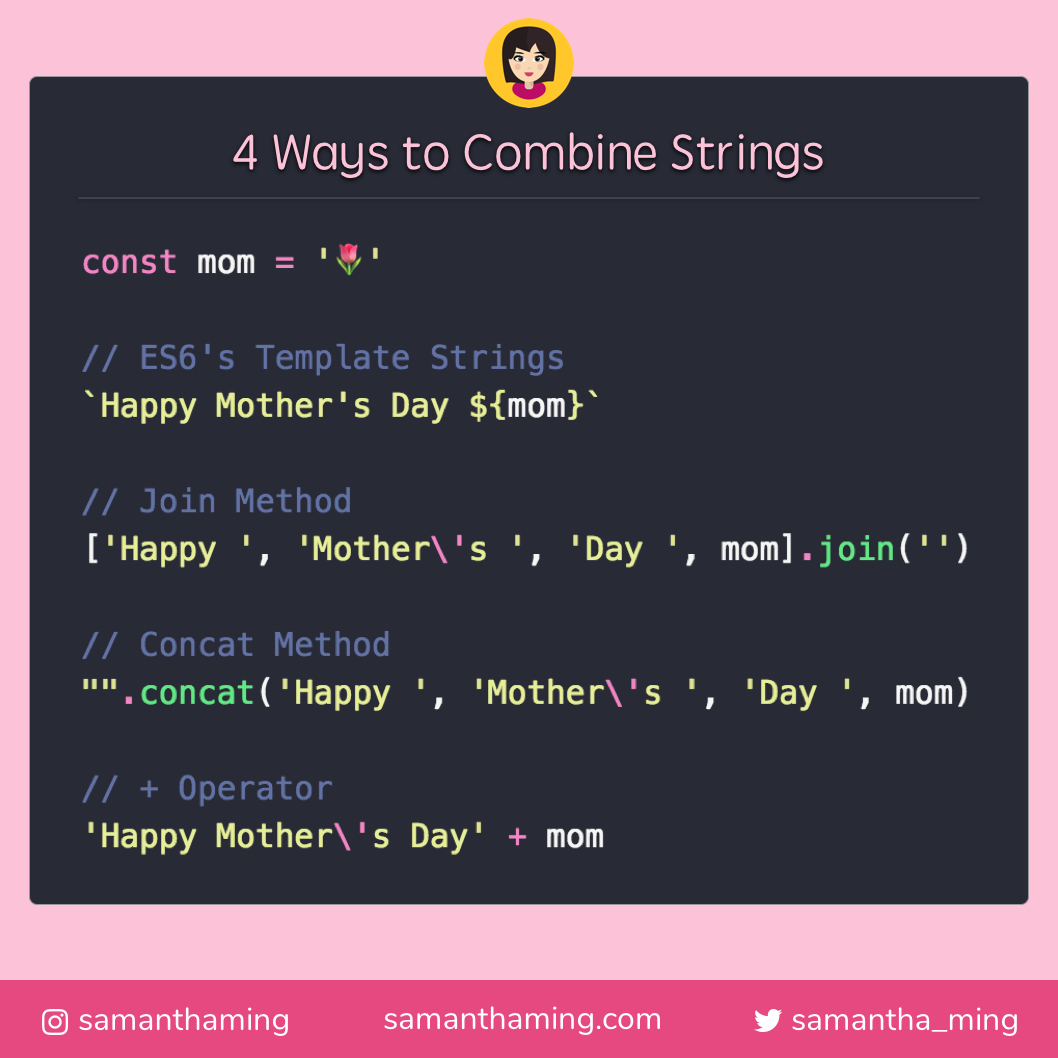
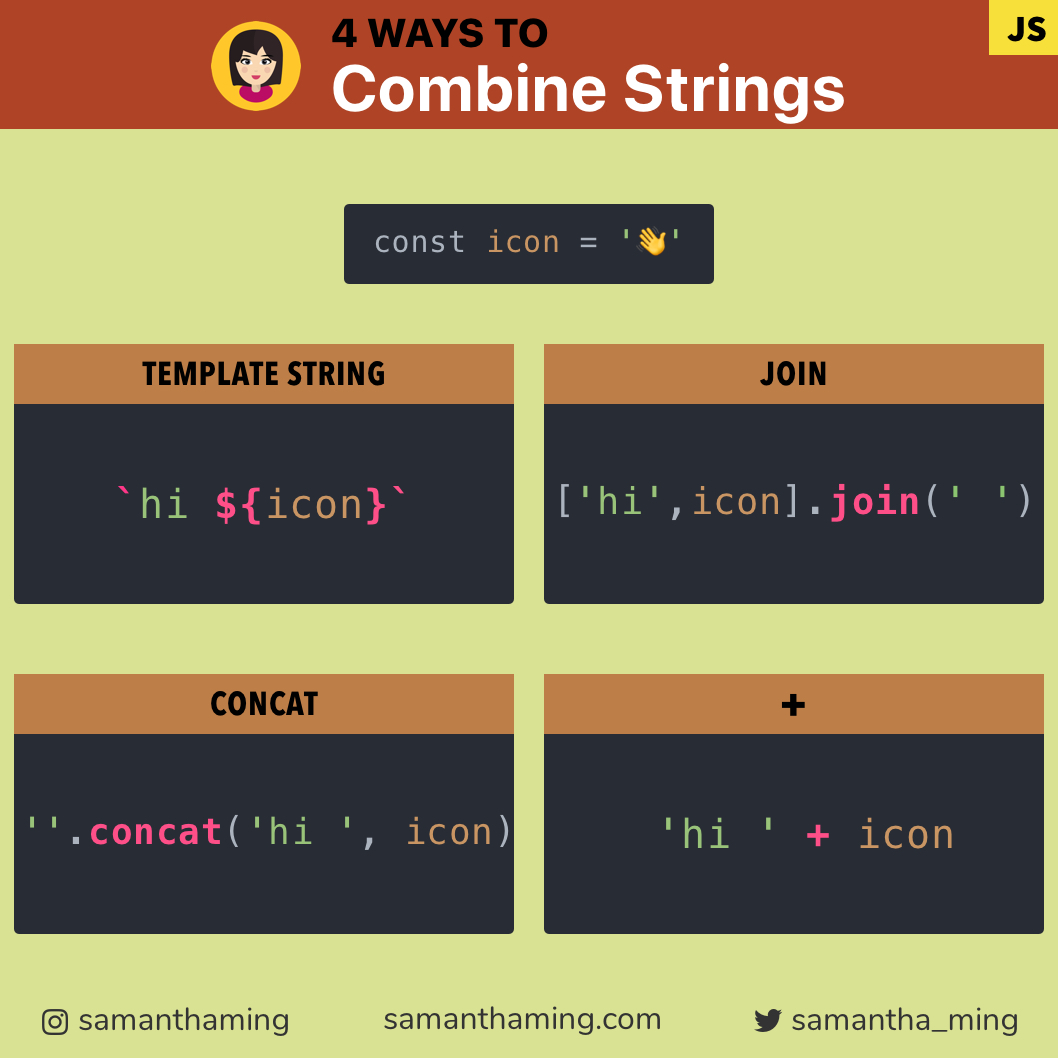
Update tidbit-15 4 ways to combine strings

diff --git a/articles/tidbits/15-4-ways-to-combine-strings.md b/articles/tidbits/15-4-ways-to-combine-strings.md
@@ -1,25 +1,290 @@
-# 4 Ways to Combine Strings
+# 4 Ways to Combine Strings in JavaScript
 
-Happy Mother’s Day 🌷
-
-4 ways to combine strings in JavaScript. My favourite way is using ES6’s Template Strings. Why? Because it’s more readable, no backslash to escape quotes, and no more messy plus operators.
+Here are 4 ways to combine strings in JavaScript. My favorite way is using Template Strings. Why? Because it’s more readable, no backslash to escape quotes, no awkward empty space separator, and no more messy plus operators 👏
 
 ```js
-const mom = '🌷';
+const icon = '👋';
 
-// ES6's Template Strings
-const templateString = `Happy Mother's Day ${mom}`;
+// Template Strings
+`hi ${icon}`;
 
 // join() Method
-const joinMethod = ['Happy', 'Mother\'s', 'Day', mom].join(' ');
+['hi', icon].join(' ');
 
 // Concat() Method
-const concatMethod = "".concat('Happy ', 'Mother\'s ', 'Day ', mom);
+''.concat('hi ', icon);
 
 // + Operator
-const plusOperator = 'Happy Mother\'s Day ' + mom;
+'hi ' + icon;
+
+// RESULT
+// hi 👋
 ```
+
+[[toc]]
+
+<!-- Let's dive a bit deeper to see all these different ways to combine or concatenate our string. -->
+
+## 1. Template Strings
+
+If you come from another language, such as Ruby, you will be familiar with the term **string interpolation**. That's exactly what template strings is trying to achieve. It's a simple way to include expressions in your string creation which is readable and concise.
+
+```javascript
+const name = 'samantha';
+const country = '🇨🇦';
+```
+
+### Problem of Missing space in String concatenation
+
+Before template strings, this would be the result of my string 😫
+
+```javascript
+"Hi, I'm " + name + "and I'm from " + country;
+```
+
+☝ Did you catch my mistake? I'm missing a space 😫. And that's a super common issue when concatenating strings.
+
+```javascript
+// Hi, I'm samanthaand I'm from 🇨🇦
+```
+
+### Resolved with Template Strings
+
+With template strings, this is resolved. You write exactly how you want your string to appear. So it's very easy to spot if a space is missing. Super readable now, yay! 👏
+
+```javascript
+`Hi, I'm ${name} and I'm from ${country}`;
+```
+
+## 2. join()
+
+The `join` method combines the elements of an array and returns a string. Because it's working with array, it's very handy if you want to add additional strings.
+
+```javascript
+const instagram = '@samanthaming';
+const twitter = '@samantha_ming';
+const array = ['My handles are ', instagram, twitter];
+
+const tiktok = '@samantaming';
+
+array.push(tiktok);
+
+array.join(' ');
+
+// My handles are @samanthaming @samantha_ming @samanthaming
+```
+
+### Customize Separator
+
+The great thing about `join` is that you can customize how your array elements get combined. You can do this by passing a separator in its parameter.
+
+```javascript
+const array = ['My handles are'];
+const handles = [instagram, twitter, tiktok].join(', '); // @samanthaming, @samantha_ming, @samanthaming
+
+array.push(handles); // ['My handles are', '@samanthaming, @samantha_ming, @samanthaming']
+
+array.join(' '); // My handles are @samanthaming, @samantha_ming, @samanthaming
+```
+
+## 3. concat()
+
+With `concat`, you can create a new string by calling the method on a string.
+
+```javascript
+const instagram = '@samanthaming';
+const twitter = '@samantha_ming';
+const tiktok = '@samanthaming';
+
+'My handles are '.concat(instagram, ', ', twitter', ', tiktok);
+
+// My handles are @samanthaming, @samantha_ming, @samanthaming
+```
+
+### Combining String with Array
+
+You can also use `concat` to combine a string with an array. When I pass an array argument, it will automatically convert the array items into a string separated by a comma `,`.
+
+```javascript
+const array = [instagram, twitter, tiktok];
+
+'My handles are '.concat(array);
+
+// My handles are @samanthaming,@samantha_ming,@samanthaming
+```
+
+If you want it formatted better, we can use `join` to customize our separator.
+
+```javascript
+const array = [instagram, twitter, tiktok].join(', ');
+
+'My handles are '.concat(array);
+// My handles are @samanthaming, @samantha_ming, @samanthaming
+```
+
+## 4. Plus Operator (+)
+
+One interesting thing about using the `+` operator when combining strings. You can use to create a new string or you can mutate an existing string by appending to it.
+
+### Non-Mutative
+
+Here we are using `+` to create a brand new string.
+
+```javascript
+const instagram = '@samanthaming';
+const twitter = '@samantha_ming';
+const tiktok = '@samanthaming';
+
+const newString = 'My handles are ' + instagram + twitter + tiktok;
+```
+
+### Mutative
+
+We can also append it to an existing string using `+=`. So if for some reason, you need a mutative approach, this might be an option for you.
+
+```javascript
+let string = 'My handles are ';
+
+string += instagram + twitter;
+
+// My handles are @samanthaming@samantha_ming
+```
+
+OH darn 😱 Forgot the space again. SEE! It's so easy to miss a space when concatenating strings.
+
+```javascript
+string += instagram + ', ' + twitter + ', ' + tiktok;
+
+// My handles are @samanthaming, @samantha_ming, @samanthaming
+```
+
+That feels so messy still, let's throw `join` in there!
+
+```javascript
+string += [instagram, twitter, tiktok].join(', ');
+
+// My handles are @samanthaming, @samantha_ming, @samanthaming
+```
+
+## Escaping Characters in Strings
+
+When you have special characters in your string, you will need to first escape these characters when combining. Let's look through a few scenarios and see how we can escape them 💪
+
+### Escape Single Quotes or Apostrophes (')
+
+When creating a string you can use single or double quotes. Knowing this knowledge, when you have a single quote in your string, a very simple solution is to use the opposite to create the string.
+
+```javascript
+const happy = 🙂;
+
+["I'm ", happy].join(' ');
+
+''.concat("I'm ", happy);
+
+"I'm " + happy;
+
+// RESULT
+// I'm 🙂
+```
+
+Of course, you can also use the backslash, `\` , to escape characters. But I find it a bit difficult to read, so I don't often do it this way.
+
+```javascript
+const happy = 🙂;
+
+['I\'m ', happy].join(' ');
+
+''.concat('I\'m ', happy);
+
+'I\'m ' + happy;
+
+// RESULT
+// I'm 🙂
+```
+
+_Because Template strings is using backtick, this scenario doesn't apply to it 👍_
+
+### Escape Double Quotes (")
+
+Similar to escaping single quotes, we can use the same technique of using the opposite. So for escaping double quotes, we will use single quotes.
+
+```javascript
+const flag = '🇨🇦';
+
+['Canada "', flag, '"'].join(' ');
+
+''.concat('Canada "', flag, '"');
+
+'Canada "' + flag + '"';
+
+// RESULT
+// Canada "🇨🇦"
+```
+
+And yes, can also use the backslash escape character.
+
+```javascript
+const flag = '🇨🇦';
+
+['Canada "', flag, '"'].join(' ');
+
+''.concat('Canada "', flag, '"');
+
+'Canada "' + flag + '"';
+
+// RESULT
+// Canada "🇨🇦"
+```
+
+_Because Template strings is using backtick, this scenario doesn't apply to it 👍_
+
+### Escape backtick (`)
+
+Because Template strings is using backticks to create its string, when do want to output that character, we have to escape it using backslash.
+
+```javascript
+const flag = '🇨🇦';
+
+`Use backtick \`\` to create a template string`;
+
+// RESULT
+// Use backtick `` to create a template string
+```
+
+_Because the other string creations are not using backtick, this scenario doesn't apply to them 👍_
+
+## Which way to use?
+
+I showed a few examples of using the different ways of concatenating strings. Which way is better all depends on the situation. When it comes to stylistic preference, I like to follow Airbnb Style guide.
+
+> When programmatically building up strings, use template strings instead of concatenation. eslint: [prefer-template template-curly-spacing](https://eslint.org/docs/rules/prefer-template.html)
+
+So template strings for the win! 👑
+
+### Why the other ways still matter?
+
+It's still important to know the other ways as well. Why? Because not every code base will follow this rule or you might be dealing with a legacy code base. As a developer, we need to be able to adapt and understand whatever environment we're thrown in. We're there to problem solve not complain how old the tech is lol 😂 Unless that complaining is paired with tangible action to improve. Then we got progress 👏
+
+## Browser Support
+
+| Browser           | Template String | join        | concat    | +         |
+| ----------------- | :-------------: | ----------- | --------- | --------- |
+| Internet Explorer |       ❌        | ✅ _IE 5.5_ | ✅ _IE 4_ | ✅ _IE 3_ |
+| Edge              |       ✅        | ✅          | ✅        | ✅        |
+| Chrome            |       ✅        | ✅          | ✅        | ✅        |
+| Firefox           |       ✅        | ✅          | ✅        | ✅        |
+| Safari            |       ✅        | ✅          | ✅        | ✅        |
 
 ## Resources
 
 - [MDN Template Literals](https://developer.mozilla.org/en-US/docs/Web/JavaScript/Reference/Template_literals)
+- [MDN: concat](https://developer.mozilla.org/en-US/docs/Web/JavaScript/Reference/Global_Objects/String/concat)
+- [MDN: join](https://developer.mozilla.org/en-US/docs/Web/JavaScript/Reference/Global_Objects/Array/join)
+- [MDN: +](https://developer.mozilla.org/en-US/docs/Web/JavaScript/Reference/Operators/Addition)
+- [Stack Overflow: Most efficient way to concatenate strings in JavaScript?](https://stackoverflow.com/questions/16696632/most-efficient-way-to-concatenate-strings-in-javascript)
+- [3 Ways to Concatenate Strings](https://masteringjs.io/tutorials/fundamentals/string-concat)
+- [Digital Ocean: How To Work with Strings in JavaScript](https://www.digitalocean.com/community/tutorials/how-to-work-with-strings-in-javascript)
+- [Airbnb Style Guide](https://github.com/airbnb/javascript#es6-template-literals)
+- [ESLint: prefer-template](https://eslint.org/docs/rules/prefer-template.html)
+- [SamanthaMing: How to Create Multi-Line String with Template Literals](https://www.samanthaming.com/tidbits/58-multi-line-strings-with-template-literals/)
+- [SamanthaMing: join](articles/basics/array-join.md)

diff --git a/articles/tidbits/95-fix-text-overlap-with-css-white-space.md b/articles/tidbits/95-fix-text-overlap-with-css-white-space.md
@@ -201,6 +201,8 @@ _[@longlho](https://twitter.com/longlho/status/1284654364766986241?s=20):_ white
 
 <!-- markdownlint-enable MD044 -->
 
+- _[@andr3](https://www.instagram.com/andr3/):_ Mix it with media queries and you have a great solution for responsive anti-typographic-orphans! :D [Orphans & Long Lines](http://workshop.andr3.net/rwd/orphans.html) I love this property. Much more powerful than the simple `&nbsp;` entity. Love your write up. Especially the "Assume Positive Intent" towards legacy code :D Indeed!
+
 ## Resources
 
 - [MDN: white-space](https://developer.mozilla.org/en-US/docs/Web/CSS/white-space)
@@ -211,3 +213,4 @@ _[@longlho](https://twitter.com/longlho/status/1284654364766986241?s=20):_ white
 - [CSS white-space](https://www.impressivewebs.com/css-white-space/)
 - [GitLab: Fix overlapping string](https://gitlab.com/gitlab-org/gitlab/-/merge_requests/36108)
 - [GitLab: Assume Positive Intent](https://about.gitlab.com/handbook/values/#assume-positive-intent)
+- [Orphans & Long Lines](http://workshop.andr3.net/rwd/orphans.html)
